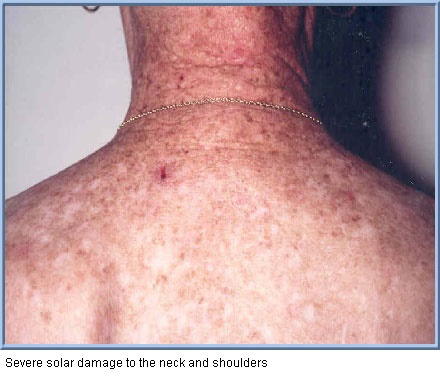
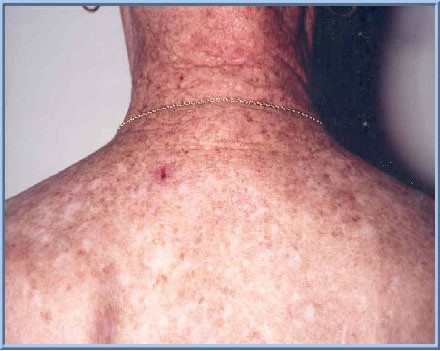
NCIATWP_1044_Changes_Freckle_Question
Cropped the picture and made some minor fixes

diff --git a/melanomarisktool/calculator.html b/melanomarisktool/calculator.html
@@ -323,11 +323,11 @@
               <div class="small_mole_answer">Twelve or more</div>
             </label>
           </div>
-          <label class="questions" id="freckling">How extensive is the freckling on the patient's back and shoulders?</label>
+          <label class="questions marginBetweeenQuestionAndPic" id="freckling">How extensive is the freckling on the patient's back and shoulders?</label>
             <div id="frecklePictures" class="row">
               <div class="col-lg-4">
                 <img id="mildFreckling" data-name="Mild Freckling" class="img-responsive" src="" alt="Example Picture of mild Freckling">
-                <p class="pictureText"><a class="pictureText" href="">Click to Enlarge</a></p>
+                <p class="pictureText"><a class="pictureText" href="">Enlarge</a></p>
                 <div class="responseOptions">
                   <input id="mildFrecklingAnswer" type="radio" name="freckling" value="1" required >
                   <label class="radio" tabindex="0" for="mildFrecklingAnswer"><span> </span>Mild Freckling</label>
@@ -335,7 +335,7 @@
               </div>
               <div class="col-lg-4">
                 <img id="moderateFreckling" data-name="Moderate Freckling" class="img-responsive" src="" alt="Example Picture of moderate Freckling">
-                <p class="pictureText"><a class="pictureText" href="">Click to Enlarge</a></p>
+                <p class="pictureText"><a class="pictureText" href="">Enlarge</a></p>
                 <div class="responseOptions">
                   <input id="moderateFrecklingAnswer" type="radio" name="freckling" value="2" required >
                   <label class="radio" tabindex="0" for="moderateFrecklingAnswer"><span> </span>Moderate Freckling</label>
@@ -343,7 +343,7 @@
               </div>
               <div class="col-lg-4">
                 <img id="severeFreckling" data-name="Severe Freckling" class="img-responsive" src="" alt="Example Picture of severe Freckling">
-                <p class="pictureText"><a class="pictureText" href="">Click to Enlarge</a></p>
+                <p class="pictureText"><a class="pictureText" href="">Enlarge</a></p>
                 <div class="responseOptions">
                   <input id="severeFrecklingAnswer" type="radio" name="freckling" value="3" required >
                   <label class="radio" tabindex="0" for="servereFrecklingAnswer"><span> </span>Severe Freckling</label>
@@ -357,10 +357,11 @@
               </div>
             </div>
           <div class="male">
-            <label class="questions" for="damage">Does the patient have severe solar damage on the shoulders?</label>
+            <label class="questions marginBetweeenQuestionAndPic" for="damage">Does the patient have severe solar damage on the shoulders?</label>
             <div class="row">
               <div class="col-lg-4">
-                <img id="solar-damage" class="img-responsive" src="rat-commons/images/mratSevereLrg2.jpg" alt="male with sunburn">
+                <img id="solar-damage" class="img-responsive" data-name="Severe Solar Damage" src="rat-commons/images/mratSevereLrg2.jpg" alt="male with sunburn">
+                <p class="pictureText"><a class="pictureText" href="">Enlarge</a></p>
                 <div id="solarDamage" class="row">
                   <div class="col col-lg-12">
                     <div class="responseOptions">

diff --git a/melanomarisktool/specificRat.css b/melanomarisktool/specificRat.css
@@ -71,6 +71,12 @@
   margin-top: .5em;
 }
 
+/* Add some space between a question and an image.  Usually the quetion is   */
+/* followed by an image.                                                     */
+.marginBetweeenQuestionAndPic {
+  margin-bottom: 30px;
+}
+
 @media ( min-width: 1200px ) {
 
   /* For a small amount of pixels about 50, the Moderate Frecking string went */

diff --git a/melanomarisktool/specificRat.js b/melanomarisktool/specificRat.js
@@ -86,7 +86,7 @@ $(function() {
 	});
 
 	// Handles the "Click to Enlarge Link");
-  $("#frecklePictures a:contains('Click to Enlarge')").on("click", function(event) {
+  $("a:contains('Enlarge')").on("click", function(event) {
 
 		// Going to the URL will be prevented
 		event.preventDefault();
